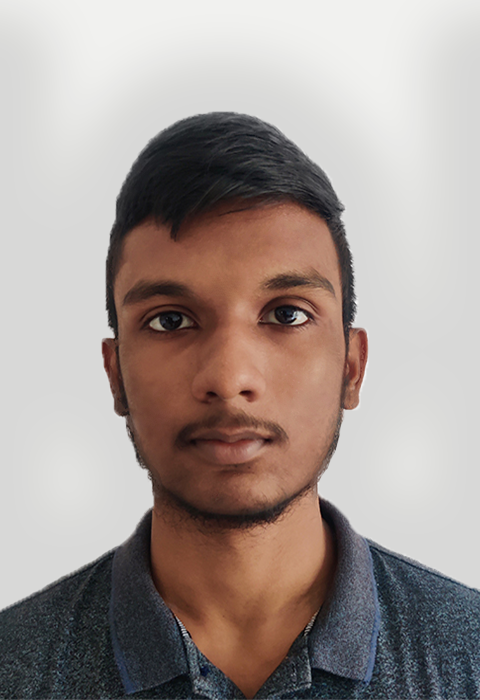
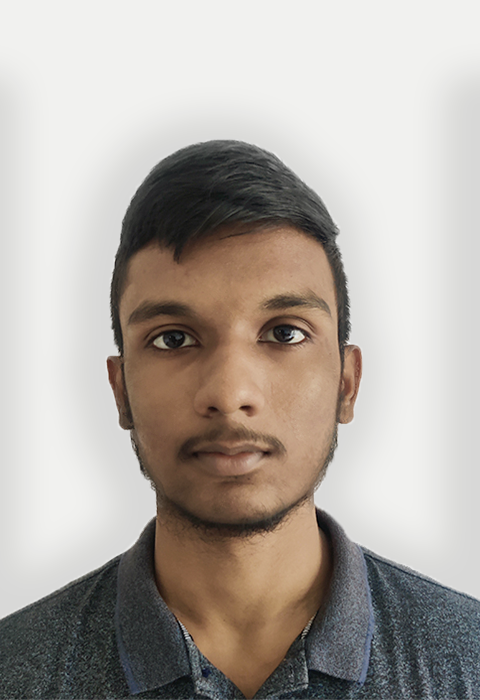
fixed console errors

Changed region(s): [[0.0, 0.15, 1.0, 1.0]]

diff --git a/src/components/HowitWorks.js b/src/components/HowitWorks.js
@@ -8,70 +8,70 @@ const HowitWorks = () => {
                 <h4 className="text-center lg:text-xl font-light mb-12 font-sans">We offer design thinking-based and technology driven services in digital product innovation,
                     customer experience management, and digital transformation.</h4>
 
-                <div class="container">
-                    <div class="flex flex-col md:grid grid-cols-9 mx-auto p-2 text-blue-50">
-                        <div class="flex flex-row-reverse md:contents">
-                            <div class="bg-blue-900 col-start-1 col-end-5 p-4 rounded-xl my-4 ml-auto shadow-md transition duration-500 ease-in-out transform hover:-translate-y-1 hover:scale-105">
-                                <h3 class="font-semibold lg:text-xl mb-4 font-sans xs:text-sm">Discovery & Analysis</h3>
-                                <p class="leading-tight text-justify font-sans md:text-xs xs:text-xs">
+                <div className="container">
+                    <div className="flex flex-col md:grid grid-cols-9 mx-auto p-2 text-blue-50">
+                        <div className="flex flex-row-reverse md:contents">
+                            <div className="bg-blue-900 col-start-1 col-end-5 p-4 rounded-xl my-4 ml-auto shadow-md transition duration-500 ease-in-out transform hover:-translate-y-1 hover:scale-105">
+                                <h3 className="font-semibold lg:text-xl mb-4 font-sans xs:text-sm">Discovery & Analysis</h3>
+                                <p className="leading-tight text-justify font-sans md:text-xs xs:text-xs">
                                     At the first stage we gather all the necessary details about your idea and define the ultimate development stack
                                 </p>
                             </div>
-                            <div class="col-start-5 col-end-6 md:mx-auto relative mr-10">
-                                <div class="h-full w-6 flex items-center justify-center">
-                                    <div class="h-full w-1 bg-blue-800 pointer-events-none"></div>
+                            <div className="col-start-5 col-end-6 md:mx-auto relative mr-10">
+                                <div className="h-full w-6 flex items-center justify-center">
+                                    <div className="h-full w-1 bg-blue-800 pointer-events-none"></div>
                                 </div>
-                                <div class="w-6 h-6 absolute top-1/2 -mt-3 rounded-full bg-blue-500 shadow"></div>
+                                <div className="w-6 h-6 absolute top-1/2 -mt-3 rounded-full bg-blue-500 shadow"></div>
                             </div>
                         </div>
-                        <div class="flex md:contents">
-                            <div class="col-start-5 col-end-6 mr-10 md:mx-auto relative">
-                                <div class="h-full w-6 flex items-center justify-center">
-                                    <div class="h-full w-1 bg-blue-900 pointer-events-none"></div>
+                        <div className="flex md:contents">
+                            <div className="col-start-5 col-end-6 mr-10 md:mx-auto relative">
+                                <div className="h-full w-6 flex items-center justify-center">
+                                    <div className="h-full w-1 bg-blue-900 pointer-events-none"></div>
                                 </div>
                                 <div
-                                    class="w-6 h-6 absolute top-1/2 -mt-3 rounded-full bg-blue-500 shadow"
+                                    className="w-6 h-6 absolute top-1/2 -mt-3 rounded-full bg-blue-500 shadow"
                                 ></div>
                             </div>
                             <div
-                                class="bg-blue-900 col-start-6 col-end-10 p-4 rounded-xl my-4 mr-auto shadow-md transition duration-500 ease-in-out transform hover:-translate-y-1 hover:scale-105"
+                                className="bg-blue-900 col-start-6 col-end-10 p-4 rounded-xl my-4 mr-auto shadow-md transition duration-500 ease-in-out transform hover:-translate-y-1 hover:scale-105"
                             >
-                                <h3 class="font-semibold lg:text-xl mb-4 font-sans xs:text-sm">Planning & Designing</h3>
-                                <p class="leading-tight text-justify font-sans md:text-xs xs:text-xs">
+                                <h3 className="font-semibold lg:text-xl mb-4 font-sans xs:text-sm">Planning & Designing</h3>
+                                <p className="leading-tight text-justify font-sans md:text-xs xs:text-xs">
                                     At the second stage we focus on organizing the overall structure and behaviours of the components to a gathered to a workable plan
                                 </p>
                             </div>
                         </div>
-                        <div class="flex flex-row-reverse md:contents">
+                        <div className="flex flex-row-reverse md:contents">
                             <div
-                                class="bg-blue-900 col-start-1 col-end-5 p-4 rounded-xl my-4 ml-auto shadow-md transition duration-500 ease-in-out transform hover:-translate-y-1 hover:scale-105"
+                                className="bg-blue-900 col-start-1 col-end-5 p-4 rounded-xl my-4 ml-auto shadow-md transition duration-500 ease-in-out transform hover:-translate-y-1 hover:scale-105"
                             >
-                                <h3 class="font-semibold lg:text-xl mb-4 font-sans xs:text-sm">Development & Testing</h3>
-                                <p class="leading-tight text-justify font-sans md:text-xs xs:text-xs">
+                                <h3 className="font-semibold lg:text-xl mb-4 font-sans xs:text-sm">Development & Testing</h3>
+                                <p className="leading-tight text-justify font-sans md:text-xs xs:text-xs">
                                     At the third stage, we implement your working prototype ensure that it perform without any bugs or errors
                                 </p>
                             </div>
-                            <div class="col-start-5 col-end-6 md:mx-auto relative mr-10">
-                                <div class="h-full w-6 flex items-center justify-center">
-                                    <div class="h-full w-1 bg-blue-800 pointer-events-none"></div>
+                            <div className="col-start-5 col-end-6 md:mx-auto relative mr-10">
+                                <div className="h-full w-6 flex items-center justify-center">
+                                    <div className="h-full w-1 bg-blue-800 pointer-events-none"></div>
                                 </div>
                                 <div
-                                    class="w-6 h-6 absolute top-1/2 -mt-3 rounded-full bg-blue-500 shadow"
+                                    className="w-6 h-6 absolute top-1/2 -mt-3 rounded-full bg-blue-500 shadow"
                                 ></div>
                             </div>
                         </div>
-                        <div class="flex md:contents">
-                            <div class="col-start-5 col-end-6 mr-10 md:mx-auto relative">
-                                <div class="h-full w-6 flex items-center justify-center">
-                                    <div class="h-full w-1 bg-blue-800 pointer-events-none"></div>
+                        <div className="flex md:contents">
+                            <div className="col-start-5 col-end-6 mr-10 md:mx-auto relative">
+                                <div className="h-full w-6 flex items-center justify-center">
+                                    <div className="h-full w-1 bg-blue-800 pointer-events-none"></div>
                                 </div>
                                 <div
-                                    class="w-6 h-6 absolute top-1/2 -mt-3 rounded-full bg-blue-500 shadow"
+                                    className="w-6 h-6 absolute top-1/2 -mt-3 rounded-full bg-blue-500 shadow"
                                 ></div>
                             </div>
-                            <div class="bg-blue-900 col-start-6 col-end-10 p-4 rounded-xl my-4 mr-auto ml-auto shadow-md transition duration-500 ease-in-out transform hover:-translate-y-1 hover:scale-105">
-                                <h3 class="font-semibold lg:text-xl mb-4 font-sans xs:text-sm">Optimize & Maintain</h3>
-                                <p class="leading-tight text-justify font-sans md:text-xs xs:text-xs">
+                            <div className="bg-blue-900 col-start-6 col-end-10 p-4 rounded-xl my-4 mr-auto ml-auto shadow-md transition duration-500 ease-in-out transform hover:-translate-y-1 hover:scale-105">
+                                <h3 className="font-semibold lg:text-xl mb-4 font-sans xs:text-sm">Optimize & Maintain</h3>
+                                <p className="leading-tight text-justify font-sans md:text-xs xs:text-xs">
                                     At the fourth stage, we optimize your working prototype ensure that it gives you value for your money and performing at peak level
                                 </p>
                             </div>

diff --git a/src/components/ContactForm.js b/src/components/ContactForm.js
@@ -10,7 +10,7 @@ const ContactForm = () => {
     const sendEmail = (e) => {
         e.preventDefault();
         setLoading(true);
-        emailjs.sendForm('service_akgjg0h', 'template_urmbimh', e.target, 'user_C4MYMqA8kKLMFSJUu6qBK').then(
+        emailjs.sendForm('service_nlie6bd', 'template_diwqsrb', e.target, 'user_Oj3zK2EEVuSKW0kVQXYr4').then(
             res => {
                 setLoading(false);
                 document.getElementById("create-course-form").reset();
@@ -23,12 +23,15 @@ const ContactForm = () => {
         <>
             <div className="container">
 
-                <div class="max-w-screen-xl mt-16 px-4 grid gap-8 grid-cols-1 md:grid-cols-2 md:px-12 lg:px-10 xl:px-32 py-16 mx-auto bg-white text-gray-900 rounded-lg">
-                    <div class="flex flex-col justify-between">
+                <div className="max-w-screen-xl mt-16 px-4 grid gap-8 grid-cols-1 md:grid-cols-2 md:px-12 lg:px-10 xl:px-32 py-16 mx-auto bg-white text-gray-900 rounded-lg">
+                    <div className="flex flex-col justify-between">
                         <div>
-                            <h2 class="text-4xl lg:text-5xl font-bold leading-tight text-sylab-blue">Lets talk about everything!</h2>
-                            <div class="text-gray-700 mt-8">
+                            <h2 className="text-4xl lg:text-5xl font-bold leading-tight text-sylab-blue">Lets talk about everything!</h2>
+                            <div className="text-gray-700 mt-8">
                                 We’re passionate about innovation, brilliant ideas and the execution that brings it all together in one beautiful experience. If you are too, call or send us an email to get started.
+                                <br></br>
+                                <br></br>
+                                info@sylab.tech
                             </div>
                             <img src={img1} alt="Team Sy Labs" className="lg:pr-12 lg:pt-10" />
                         </div>
@@ -40,25 +43,25 @@ const ContactForm = () => {
 
                     <form className={loading ? 'hidden' : 'lg:ml-14'} onSubmit={sendEmail} id="create-course-form">
                         <div>
-                            <span class="uppercase text-sm text-gray-600 font-bold">Full Name</span>
-                            <input class="w-full bg-gray-100 text-gray-900 mt-2 p-3 rounded-lg focus:outline-none focus:shadow-outline"
-                                type="text" placeholder="" name="name" />
+                            <span className="uppercase text-sm text-gray-600 font-bold">Full Name</span>
+                            <input className="w-full bg-gray-100 text-gray-900 mt-2 p-3 rounded-lg focus:outline-none focus:shadow-outline"
+                                type="text" placeholder="" name="user_name" />
                         </div>
-                        <div class="mt-8">
-                            <span class="uppercase text-sm text-gray-600 font-bold">Email</span>
-                            <input class="w-full bg-gray-100 text-gray-900 mt-2 p-3 rounded-lg focus:outline-none focus:shadow-outline"
+                        <div className="mt-8">
+                            <span className="uppercase text-sm text-gray-600 font-bold">Email</span>
+                            <input className="w-full bg-gray-100 text-gray-900 mt-2 p-3 rounded-lg focus:outline-none focus:shadow-outline"
                                 type="text" name="user_email" />
                         </div>
 
-                        <div class="mt-8">
-                            <span class="uppercase text-sm text-gray-600 font-bold">Message</span>
+                        <div className="mt-8">
+                            <span className="uppercase text-sm text-gray-600 font-bold">Message</span>
                             <textarea
-                                class="w-full h-32 bg-gray-100 text-gray-900 mt-2 p-3 rounded-lg focus:outline-none focus:shadow-outline" name="message"></textarea>
+                                className="w-full h-32 bg-gray-100 text-gray-900 mt-2 p-3 rounded-lg focus:outline-none focus:shadow-outline" name="message"></textarea>
                         </div>
-                        <div class="mt-8">
+                        <div className="mt-8">
                             <button
                                 type="submit"
-                                class="uppercase text-sm font-bold tracking-wide bg-sylab-blue text-gray-100 p-3 rounded-lg w-full focus:outline-none focus:shadow-outline hover:bg-sylab-orange">
+                                className="uppercase text-sm font-bold tracking-wide bg-sylab-blue text-gray-100 p-3 rounded-lg w-full focus:outline-none focus:shadow-outline hover:bg-sylab-orange">
                                 Send Message
                             </button>
                         </div>

diff --git a/src/components/Footer.js b/src/components/Footer.js
@@ -6,14 +6,14 @@ const Footer = () => {
     return (
         <>
             <div className="bg-sylab-blue">
-                <div class="border-t border-solid border-gray-900 mt-4 py-4">
-                    <div class="container px-4 mx-auto">
+                <div className="border-t border-solid border-gray-900 mt-4 py-4">
+                    <div className="container px-4 mx-auto">
 
-                        <div class="md:flex md:-mx-4 md:items-center">
-                            <div class="md:flex-1 md:px-4 text-center md:text-left">
+                        <div className="md:flex md:-mx-4 md:items-center">
+                            <div className="md:flex-1 md:px-4 text-center md:text-left">
                                 <img src={Logo} alt="Sy Labs" className="xs:my-4 md:visible xs:h-8 xs:w-30 xs:hidden md:block" />
                             </div>
-                            <div class="md:flex-1 sm:flex-1 md:px-4 text-center md:text-right xs:mb-4 xs:gap-1">
+                            <div className="md:flex-1 sm:flex-1 md:px-4 text-center md:text-right xs:mb-4 xs:gap-1">
                                 <a href="https://www.facebook.com/synnlabz">
                                     <FaFacebookSquare className="text-xl text-blue-50 inline-block lg:mx-4 md:mx-4 sm:mx-4 xs:mx-4 hover:text-blue-500" />
                                 </a>

diff --git a/src/components/Technologies.js b/src/components/Technologies.js
@@ -7,10 +7,10 @@ const Technologies = () => {
         <>
             <div className="container">
                 <h1 className="xs:hidden md:block text-center text-4xl font-black text-sylab-blue lg:px-48 md:px-12 lg:mt-20 font-sans md:my-14">Technologies we are familiar with</h1>
-                <div class="md:mt-6 grid lg:grid-flow-col md:grid-flow-col sm:grid-flow-col md:grid-rows-2 lg:grid-rows-2 sm:grid-rows-3 md:grid-cols-7 lg:grid-cols-7 sm:grid-cols-5 md:gap-8 sm:gap-8 lg:gap-4">
+                <div className="md:mt-6 grid lg:grid-flow-col md:grid-flow-col sm:grid-flow-col md:grid-rows-2 lg:grid-rows-2 sm:grid-rows-3 md:grid-cols-7 lg:grid-cols-7 sm:grid-cols-5 md:gap-8 sm:gap-8 lg:gap-4">
                     {technologyIcons.map((val, key) => {
                         return (
-                            <div class={val.animate}>
+                            <div className={val.animate} key={key}>
                                 <img className="lg:h-14 lg:w-14" src={val.icon} alt='' />
                             </div>
                         )

diff --git a/src/components/Countries.js b/src/components/Countries.js
@@ -10,9 +10,9 @@ const Countries = () => {
                 <dl className="grid grid-cols-1 gap-y-16 gap-x-8 text-center lg:grid-cols-4">
                     {countryList.map((val,key) => {
                         return(
-                            <div className="mx-auto flex max-w-xs flex-col gap-y-4">
-                                <div class="max-w-sm rounded overflow-hidden shadow-lg m-8">
-                                    <img class="w-full" src={val.flag} alt="Sunset in the mountains"/>
+                            <div className="mx-auto flex max-w-xs flex-col gap-y-4" key={key}>
+                                <div className="max-w-sm rounded overflow-hidden shadow-lg m-8">
+                                    <img className="w-full" src={val.flag} alt="Sunset in the mountains"/>
                                 </div>
                                 <dt className="text-base leading-7 text-gray-600">{val.countryName}</dt>
                             </div>

diff --git a/src/components/OurTeam.js b/src/components/OurTeam.js
@@ -13,7 +13,7 @@ const OurTeam = () => {
                 <div className="grid lg:grid-cols-5 sm:grid-cols-2 lg:gap-4 sm:gap-2 xs:grid-cols-1">
                     {ourteamDetails.map((val, key) => {
                         return (
-                            <div class="wrapper antialiased text-gray-900 xs:m-4">
+                            <div className="wrapper antialiased text-gray-900 xs:m-4" key={key}>
                                 <div>
                                     <img src={val.teamPicture} alt=" random imgee" className="lg:w-full sm:w-full object-cover object-center rounded-lg shadow-md" />
                                     <div className="relative lg:px-4 lg:-mt-16 xs:-mt-4 xs:p-1">

diff --git a/src/components/pages/ServicesPage/Services.js b/src/components/pages/ServicesPage/Services.js
@@ -1,4 +1,4 @@
-import React from 'react'
+import React,{useEffect} from 'react'
 
 import Header from '../../Header'
 import Card from '../../ServiceCard'
@@ -9,6 +9,9 @@ import Divider
 import { serviceObjOne, serviceObjTwo, fullservicecards } from '../Data/HomeData'
 
 const Services = () => {
+    useEffect(() => {
+        window.scrollTo({top: 0, left: 0, behavior: 'smooth'});
+    }, []);
     return (
         <>
             <Header heading="Our Services" desc="provides high quality, cost-effective and reliable software development services that match your specifictechnical needs, budget and timeframe." />

diff --git a/src/components/pages/Data/HomeData.js b/src/components/pages/Data/HomeData.js
@@ -104,7 +104,7 @@ export const homeObjFour = {
     isBtn: false,
     isDesc: true,
     topicIcon: <img src={MiniMe} alt="Malith Ileperuma" />,
-    topicHead: 'Malith Ileperuma',
+    topicHead: 'Malith Pabasara',
     topicDesc: 'Co-Founder & CEO',
     buttonLabel: 'Learn More',
     imgStart: '',
@@ -324,7 +324,7 @@ export const ourteamDetails = [
     },
     {
         teamPicture: Malith,
-        teamName: "Malith Ileperuma",
+        teamName: "Malith Pabasara",
         teamPosition: "DevOps Engineer & Full-Stack Developer",
         socialMedia: [{
             facebook: "www.facebook.com",

diff --git a/src/components/pages/AboutPage/About.js b/src/components/pages/AboutPage/About.js
@@ -1,4 +1,4 @@
-import React from 'react'
+import React, {useEffect} from 'react'
 
 import Header from '../../Header'
 import HeroSection from '../../HeroSection'
@@ -9,6 +9,10 @@ import Divider from '../../Divider'
 import { aboutObjOne, aboutObjTwo, aboutObjThree } from '../Data/HomeData'
 
 const About = () => {
+    useEffect(() => {
+        window.scrollTo({top: 0, left: 0, behavior: 'smooth'});
+    }, []);
+
     return (
         <>
             <Header heading="About Us" desc="Our team are experts in finding new ways to make customers sit up and take notice." />

diff --git a/src/components/pages/ContactPage/Contact.js b/src/components/pages/ContactPage/Contact.js
@@ -1,10 +1,14 @@
-import React from 'react'
+import React , {useEffect} from 'react'
 
 import Header from '../../Header'
 
 import ContactForm from '../../ContactForm'
 
 const Contact = () => {
+    useEffect(() => {
+        window.scrollTo({top: 0, left: 0, behavior: 'smooth'});
+    }, []);
+
     return (
         <>
             <Header heading="Contact Us" desc="Our briefing form is the starting point for all new projects, big or small. It asks for everything we need to give you a provisional quote for design and development projects." />

diff --git a/src/components/pages/HomePage/Home.js b/src/components/pages/HomePage/Home.js
@@ -1,4 +1,4 @@
-import React from 'react'
+import React,{useEffect} from 'react'
 import HeroSection from '../../HeroSection'
 import Card from '../../ServiceCard'
 import HowitWorks from '../../HowitWorks'
@@ -8,6 +8,9 @@ import { homeObjOne, homeObjTwo, homeObjThree, homeObjFour, servicecards } from 
 
 
 const Home = () => {
+    useEffect(() => {
+        window.scrollTo({top: 0, left: 0, behavior: 'smooth'});
+    }, []);
     return (
         <>
             <HeroSection {...homeObjOne} />
